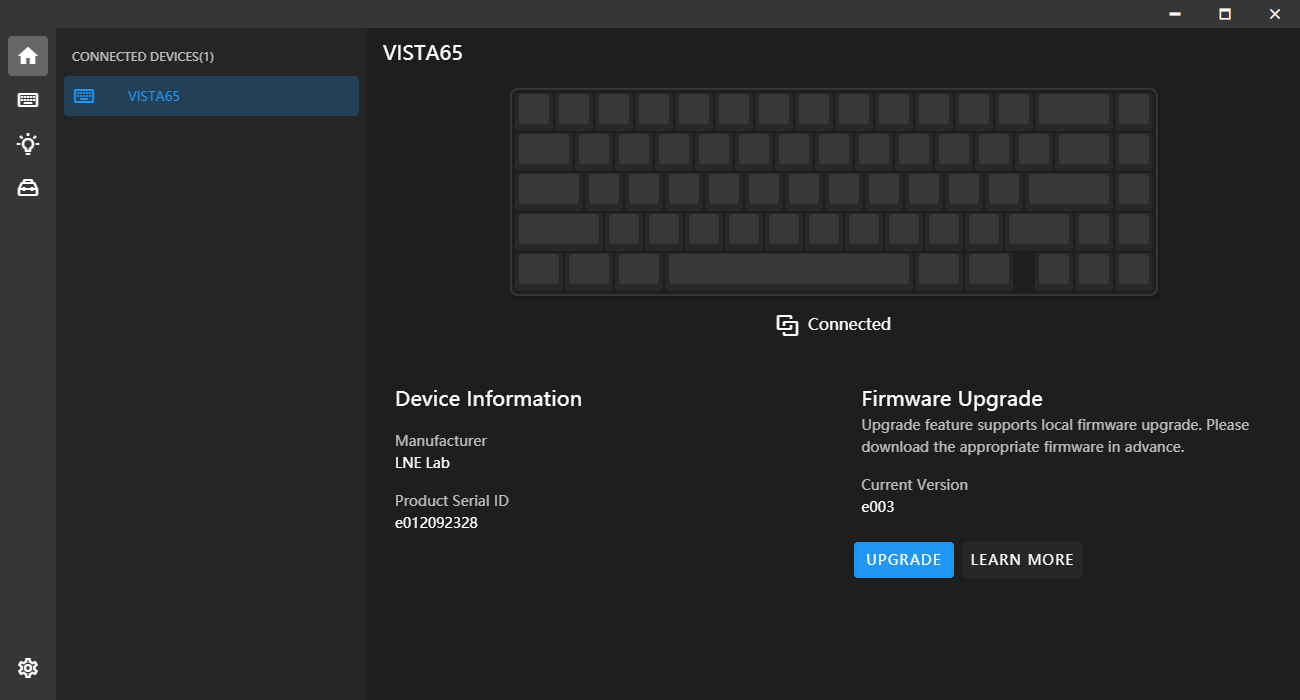
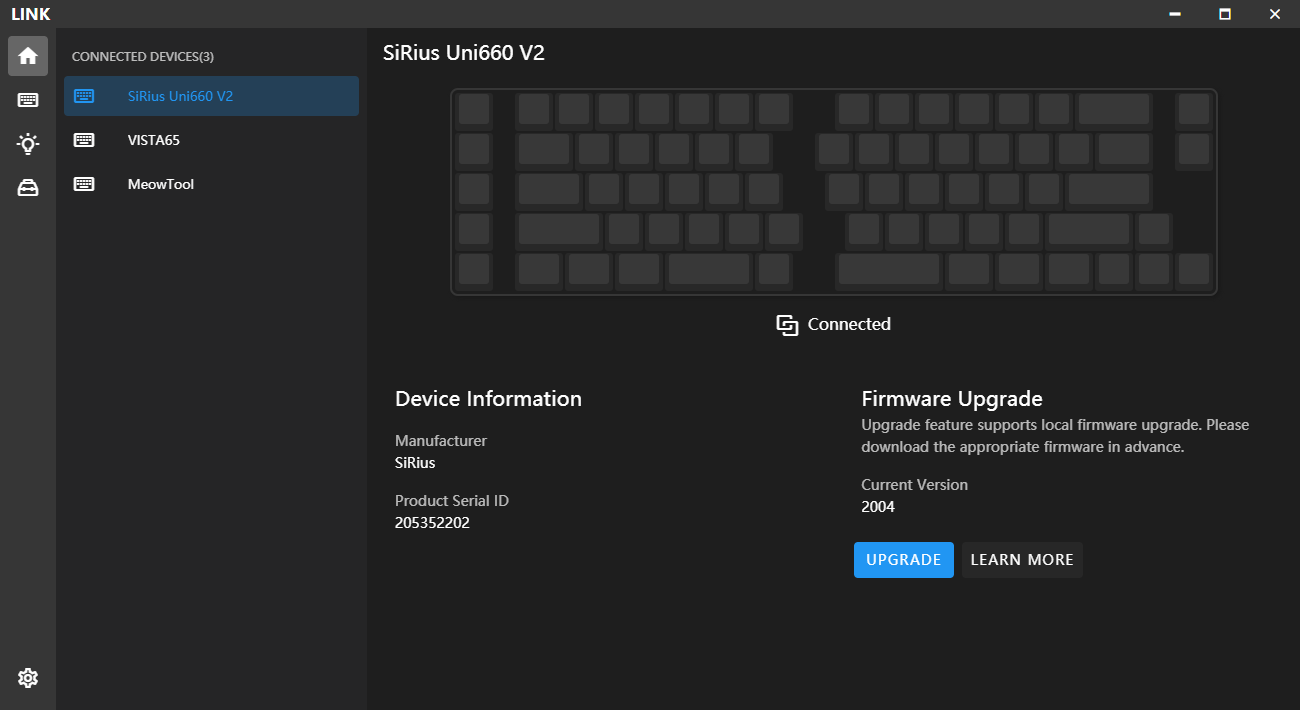
Update readme.md

diff --git a/README.md b/README.md
@@ -3,7 +3,7 @@ LINK Presented by LN Engineering Lab
 
 ## Overview
 
-![LNE Hub](assets/images/home_en.png "LNE Hub")
+![LINK](assets/images/home_en.png "LINK")
 ![Keymap](assets/images/keymap_en.png "Keymap")
 ![Lighting](assets/images/lighting_en.png "Lighting")
 
@@ -12,16 +12,17 @@ LINK provides feature navigation, firmware flashing, device configuration, and l
 
 ### Supported Devices
 #### Keyboards
-* VISTA65 Dual-Mode
-* MeowTool
+* SiRius Uni660
+* SiRius MeowTool
 * EVIL Pad
+* VISTA65 Dual-Mode
 
 #### Accessories
 * OLED
 
 ### Getting Started
 
-Please download [LINK](https://github.com/ln-org/lne_hub/releases) for Windows. LINK is updated monthly with new features and bug fixes.
+Please download [LINK](https://github.com/ln-org/lne_link/releases) for Windows. LINK is updated monthly with new features and bug fixes.
 If you are interested in this project, please contact us!
 
 ### Features
@@ -35,7 +36,7 @@ LINK currently support the following features:
 
 ### Releases
 * [Releases on GitHub](https://github.com/ln-org/lne_link/releases)
-* [Releases on Gitee](https://gitee.com/lne-lab/lne_hub/releases)
+* [Releases on Gitee](https://gitee.com/lne-lab/lne_link/releases)
 
 ### Feedback
 * [Create an issue](https://github.com/ln-org/lne_link/issues) on GitHub
